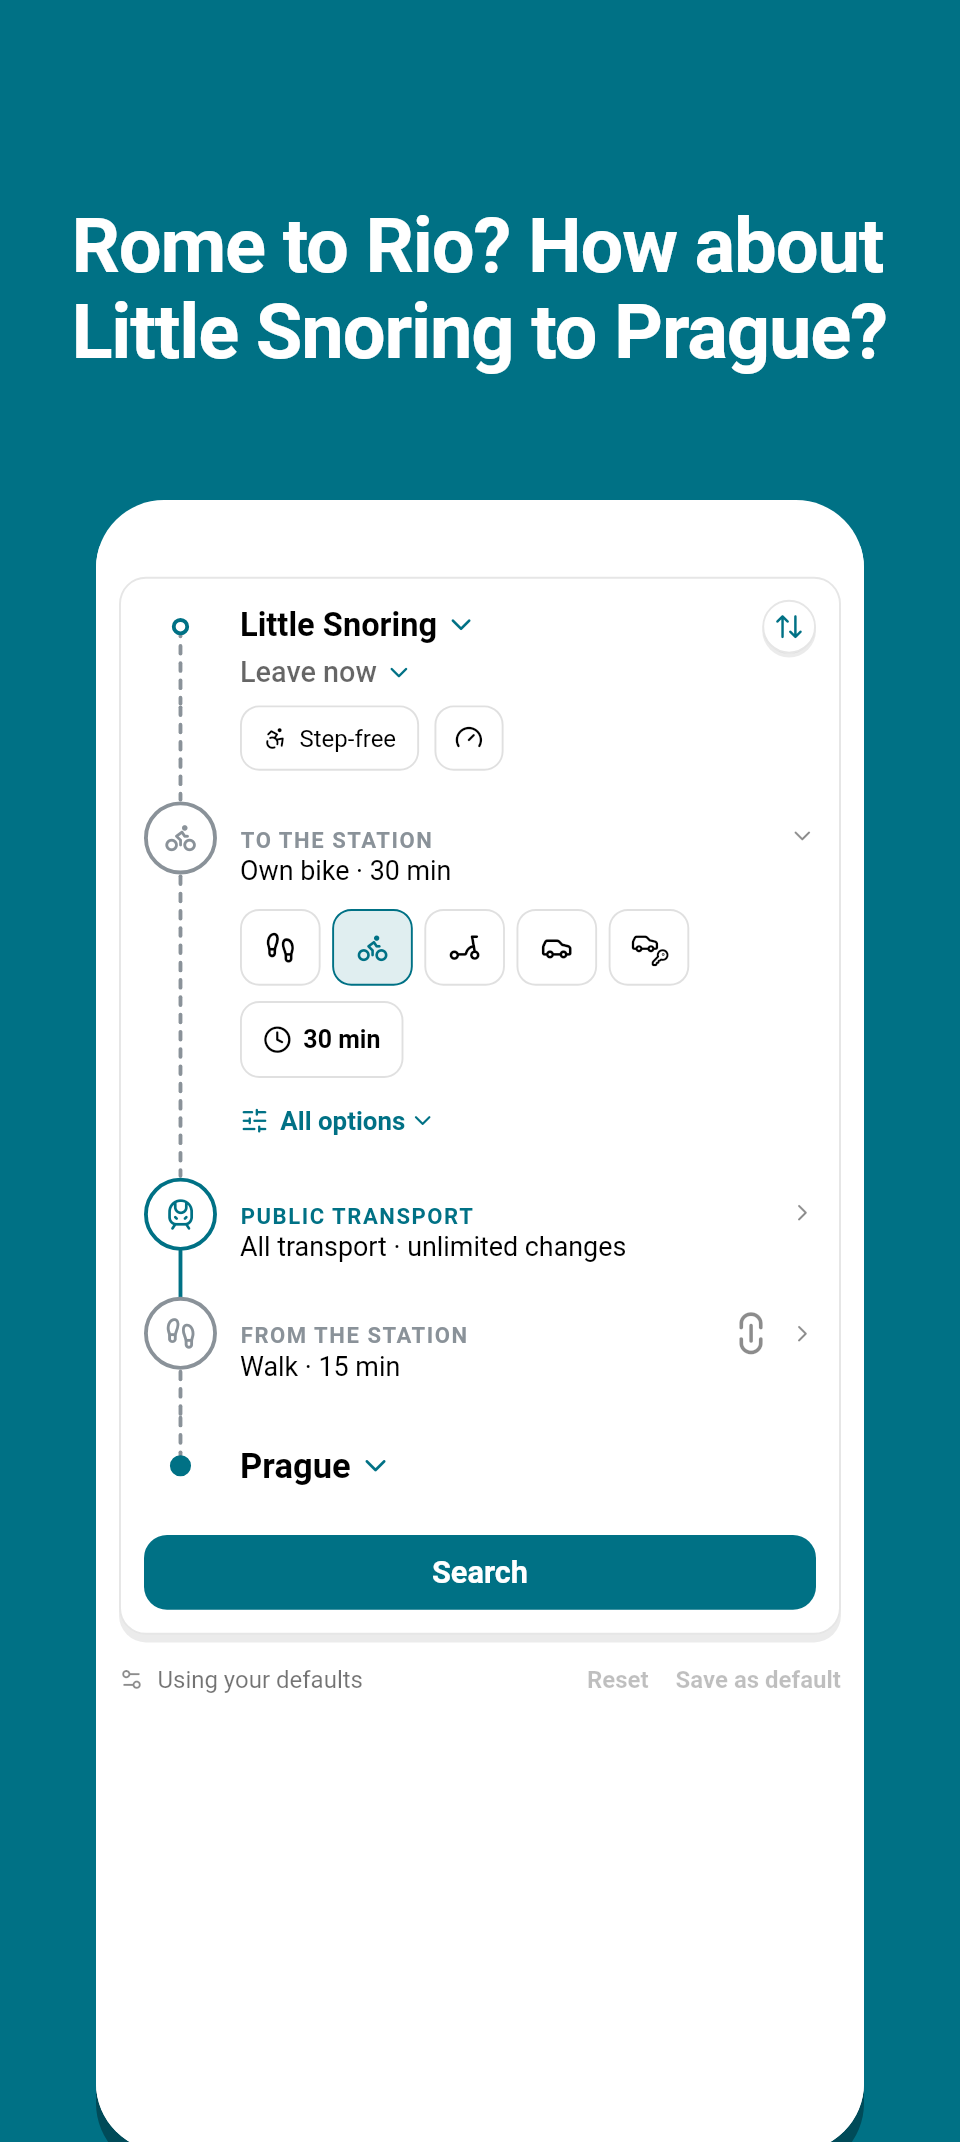
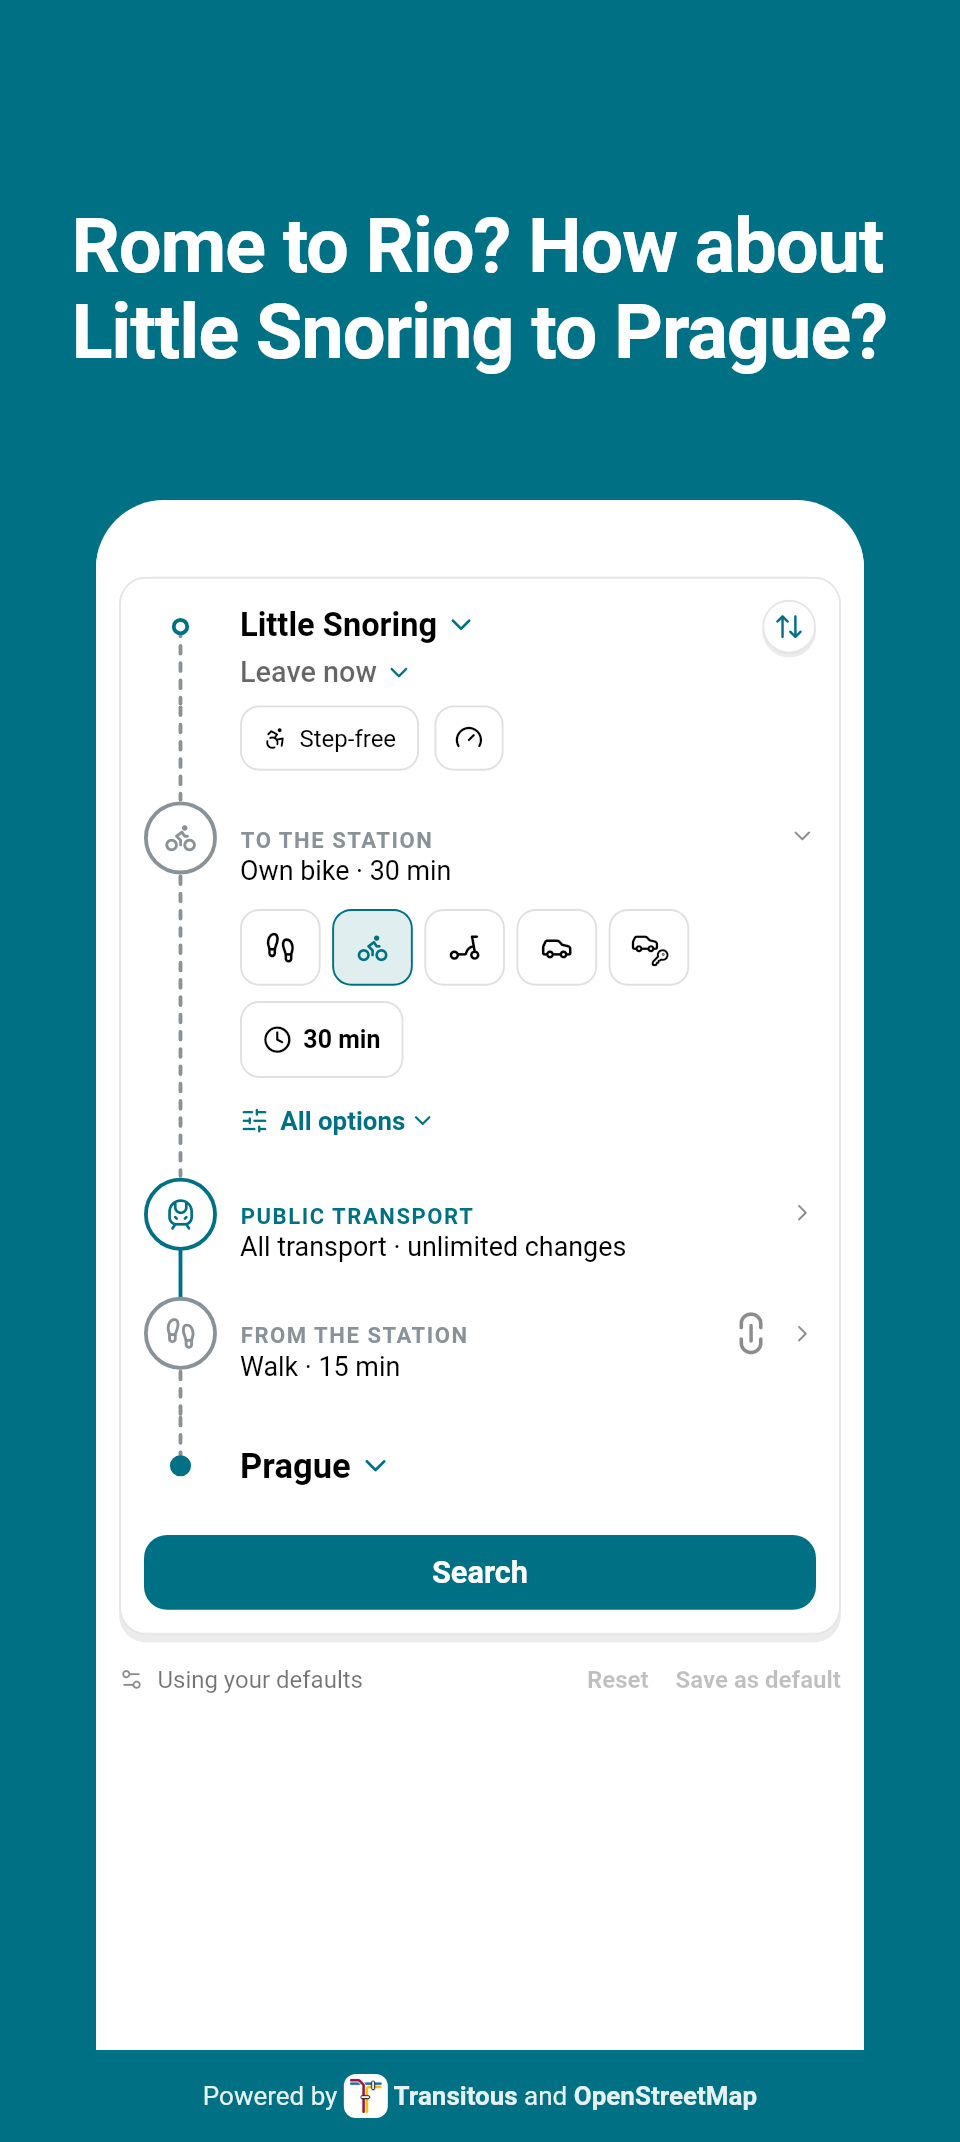
Credit Transitous and OpenStreetMap on the store screenshots
Claude-Session: https://claude.ai/code/session_01SmU9gpENTrty3R1i3WSiLK

Changed region(s): [[0.0938, 0.9552, 0.9062, 1.0]]

diff --git a/linux/drafting/store/store_draft_test.dart b/linux/drafting/store/store_draft_test.dart
@@ -35,6 +35,10 @@ const Size _kPhone = Size(400, 860);
 const double _kPhoneScale = 0.96;
 const double _kPhoneTop = 250;
 const Color _kBackground = Color(0xFF007185);
+const double _kCreditHeight = 46;
+
+/// Rasterised from https://transitous.org/images/logo.svg; see README.md.
+const String _kLogo = 'linux/drafting/store/transitous_logo.png';
 
 // Itineraries of data/plan.json, and the legs the map images focus on. The
 // map entries in render_store.sh name the same ones.
@@ -68,10 +72,18 @@ void _mockTransitous() {
 /// The store image: [heading] on the brand colour, the phone below it,
 /// running off the bottom edge.
 class StoreFrame extends StatelessWidget {
-  const StoreFrame({super.key, required this.heading, required this.phone});
+  const StoreFrame({
+    super.key,
+    required this.heading,
+    required this.phone,
+    required this.logo,
+  });
 
   final String heading;
   final Widget phone;
+
+  /// Transitous's, for the credit along the bottom.
+  final ui.Image logo;
 
   @override
   Widget build(BuildContext context) {
@@ -144,19 +156,76 @@ class StoreFrame extends StatelessWidget {
               ),
             ),
           ),
+          Positioned(
+            left: 0,
+            right: 0,
+            bottom: 0,
+            height: _kCreditHeight,
+            child: ColoredBox(
+              color: _kBackground,
+              child: _Credit(logo: logo),
+            ),
+          ),
         ],
       ),
     );
   }
 }
 
-Future<ui.Image> _map(WidgetTester tester, String name) async =>
+/// "Powered by Transitous and OpenStreetMap", with Transitous's logo: the
+/// data in every picture is theirs.
+class _Credit extends StatelessWidget {
+  const _Credit({required this.logo});
+
+  final ui.Image logo;
+
+  @override
+  Widget build(BuildContext context) {
+    const style = TextStyle(
+      fontFamily: 'Roboto',
+      fontSize: 13,
+      color: Color(0xE6FFFFFF),
+    );
+    const strong = TextStyle(fontWeight: FontWeight.w700);
+    return Row(
+      mainAxisAlignment: MainAxisAlignment.center,
+      children: [
+        const Text('Powered by ', style: style),
+        Container(
+          width: 22,
+          height: 22,
+          padding: const EdgeInsets.all(2),
+          decoration: BoxDecoration(
+            color: const Color(0xFFFFFFFF),
+            borderRadius: BorderRadius.circular(6),
+          ),
+          child: RawImage(image: logo, fit: BoxFit.contain),
+        ),
+        const Text.rich(
+          TextSpan(
+            style: style,
+            children: [
+              TextSpan(text: ' Transitous', style: strong),
+              TextSpan(text: ' and '),
+              TextSpan(text: 'OpenStreetMap', style: strong),
+            ],
+          ),
+        ),
+      ],
+    );
+  }
+}
+
+Future<ui.Image> _image(WidgetTester tester, String path) async =>
     (await tester.runAsync(() async {
       final codec = await ui.instantiateImageCodec(
-        File('$_maps/$name').readAsBytesSync(),
+        File(path).readAsBytesSync(),
       );
       return (await codec.getNextFrame()).image;
     }))!;
+
+Future<ui.Image> _map(WidgetTester tester, String name) =>
+    _image(tester, '$_maps/$name');
 
 /// Where the journey map starts below its app bar, measured on the screen.
 final ValueNotifier<double> _mapTop = ValueNotifier(0);
@@ -247,7 +316,11 @@ Future<void> _shoot(
 }) async {
   await pumpDraft(
     tester,
-    StoreFrame(heading: heading, phone: phone),
+    StoreFrame(
+      heading: heading,
+      phone: phone,
+      logo: await _image(tester, _kLogo),
+    ),
     size: _kCanvas,
   );
   await tester.pump(const Duration(seconds: 1));

diff --git a/linux/drafting/store/README.md b/linux/drafting/store/README.md
@@ -39,6 +39,13 @@ their own requests and parsing. Re-capturing changes which itinerary is
 which: check the indices in `store_draft_test.dart` and the `maps` list in
 `render_store.sh` afterwards.
 
+## The credit
+
+Every image says "Powered by Transitous and OpenStreetMap": the trips come
+from Transitous and the maps and places from OpenStreetMap.
+`transitous_logo.png` is https://transitous.org/images/logo.svg rasterised
+to 128 px with Chromium.
+
 ## Things that are faked
 
 - **The clock.** Widgets read `DateTime.now()`. `render_store.sh` moves every
